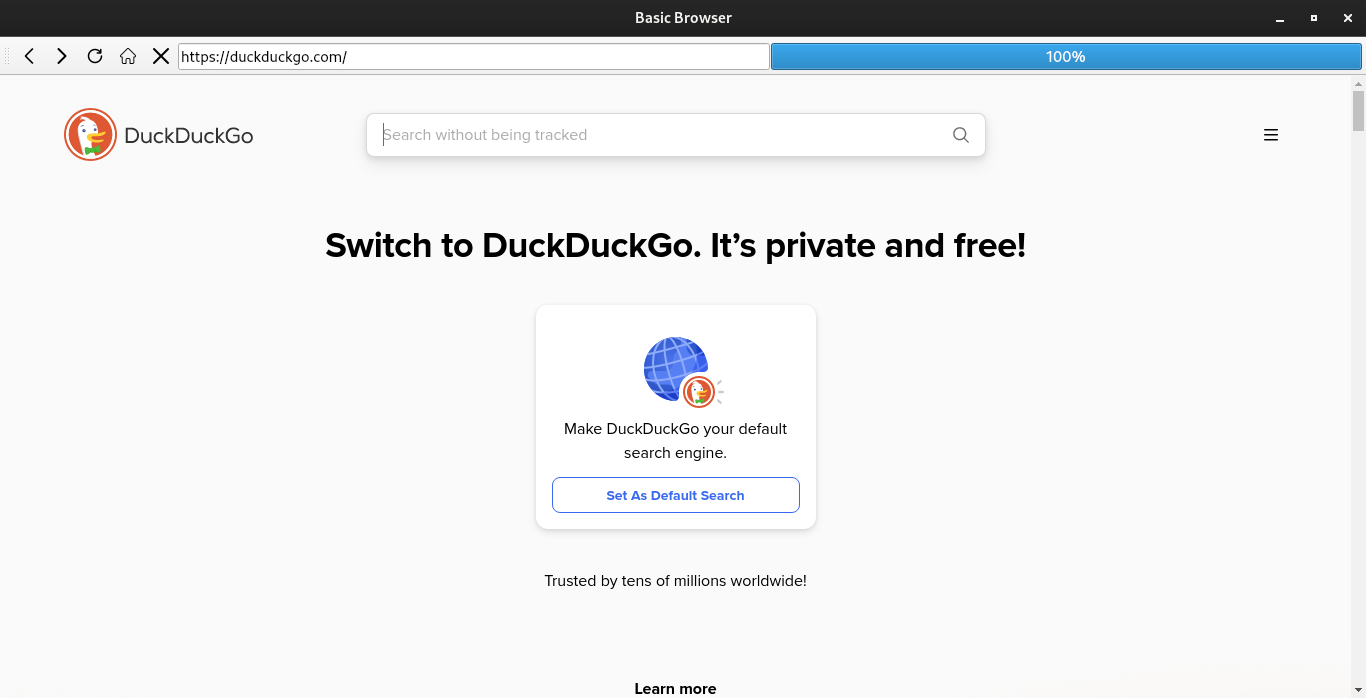
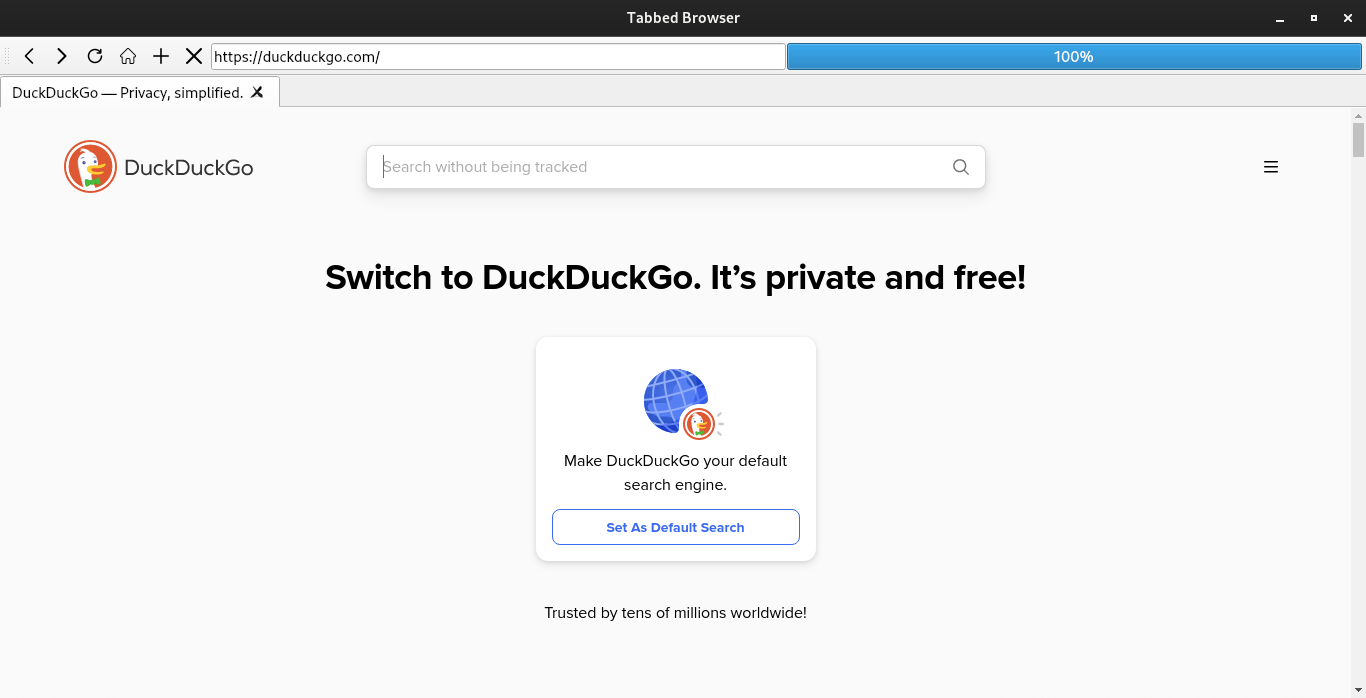
Tab Functionality added

diff --git a/browser.py b/browser.py
@@ -8,9 +8,16 @@ from PyQt5.QtWebEngineWidgets import *
 class MainWindow(QMainWindow):
     def __init__(self):
         super(MainWindow, self).__init__()
-        self.browser = QWebEngineView()
-        self.browser.setUrl(QUrl('https://duckduckgo.com'))  # Default to DuckDuckGo
-        self.setCentralWidget(self.browser)
+        
+        # Tab Widget to hold multiple tabs
+        self.tabs = QTabWidget()
+        self.tabs.setDocumentMode(True)
+        self.tabs.setTabsClosable(True)
+        self.tabs.tabCloseRequested.connect(self.close_current_tab)
+        self.tabs.currentChanged.connect(self.update_current_tab)
+
+        # Set the tab widget as the central widget
+        self.setCentralWidget(self.tabs)
         self.showMaximized()
 
         # Navbar
@@ -18,34 +25,40 @@ class MainWindow(QMainWindow):
         self.addToolBar(navbar)
 
         # Back button
-        back_btn = QAction(QIcon('icons/back.png'), 'Back', self)  # Use an icon for the back button
+        back_btn = QAction(QIcon('icons/back.png'), 'Back', self)
         back_btn.setToolTip('Go back to the previous page')
-        back_btn.triggered.connect(self.browser.back)
+        back_btn.triggered.connect(lambda: self.current_browser().back())
         navbar.addAction(back_btn)
 
         # Forward button
-        forward_btn = QAction(QIcon('icons/forward.png'), 'Forward', self)  # Use an icon for the forward button
+        forward_btn = QAction(QIcon('icons/forward.png'), 'Forward', self)
         forward_btn.setToolTip('Go forward to the next page')
-        forward_btn.triggered.connect(self.browser.forward)
+        forward_btn.triggered.connect(lambda: self.current_browser().forward())
         navbar.addAction(forward_btn)
 
         # Reload button
-        reload_btn = QAction(QIcon('icons/reload.png'), 'Reload', self)  # Use an icon for the reload button
+        reload_btn = QAction(QIcon('icons/reload.png'), 'Reload', self)
         reload_btn.setToolTip('Reload the current page')
-        reload_btn.triggered.connect(self.browser.reload)
+        reload_btn.triggered.connect(lambda: self.current_browser().reload())
         navbar.addAction(reload_btn)
 
         # Home button
-        home_btn = QAction(QIcon('icons/home.png'), 'Home', self)  # Use an icon for the home button
+        home_btn = QAction(QIcon('icons/home.png'), 'Home', self)
         home_btn.setToolTip('Go to the homepage')
         home_btn.triggered.connect(self.navigate_home)
         navbar.addAction(home_btn)
 
-        # Stop button
-        stop_btn = QAction(QIcon('icons/stop.png'), 'Stop', self)  # Use an icon for the stop button
-        stop_btn.setToolTip('Stop loading the page')
-        stop_btn.triggered.connect(self.browser.stop)
-        navbar.addAction(stop_btn)
+        # New Tab button
+        new_tab_btn = QAction(QIcon('icons/new_tab.png'), 'New Tab', self)
+        new_tab_btn.setToolTip('Open a new tab')
+        new_tab_btn.triggered.connect(lambda: self.add_new_tab(QUrl('https://duckduckgo.com'), "New Tab"))
+        navbar.addAction(new_tab_btn)
+
+        # Close Tab button (replaces Stop button)
+        close_tab_btn = QAction(QIcon('icons/stop.png'), 'Close Tab', self)
+        close_tab_btn.setToolTip('Close the current tab')
+        close_tab_btn.triggered.connect(lambda: self.close_current_tab(self.tabs.currentIndex()))
+        navbar.addAction(close_tab_btn)
 
         # URL bar
         self.url_bar = QLineEdit()
@@ -57,19 +70,49 @@ class MainWindow(QMainWindow):
         self.progress.setMaximum(100)
         navbar.addWidget(self.progress)
 
-        # Connect signals for progress and URL updates
-        self.browser.loadProgress.connect(self.update_progress)
-        self.browser.urlChanged.connect(self.update_url)
+        # Open the first tab
+        self.add_new_tab(QUrl('https://duckduckgo.com'), 'New Tab')
+
+    def add_new_tab(self, qurl=None, label="New Tab"):
+        if qurl is None:
+            qurl = QUrl('https://duckduckgo.com')
+
+        # Create a new browser view for the tab
+        browser = QWebEngineView()
+        browser.setUrl(qurl)
+        
+        # Add new tab to the tabs widget and set it as the current tab
+        i = self.tabs.addTab(browser, label)
+        self.tabs.setCurrentIndex(i)
+
+        # Connect signals for title, progress, and URL updates specific to this browser
+        browser.loadProgress.connect(self.update_progress)
+        browser.urlChanged.connect(self.update_url)
+        browser.titleChanged.connect(lambda title: self.update_tab_title(i, title))
+
+    def current_browser(self):
+        return self.tabs.currentWidget()
+
+    def close_current_tab(self, i=None):
+        if i is None:
+            i = self.tabs.currentIndex()
+        if self.tabs.count() > 1:
+            self.tabs.removeTab(i)
+
+    def update_current_tab(self, i):
+        browser = self.current_browser()
+        if browser:
+            # Update the URL bar for the new tab
+            self.update_url(browser.url())
 
     def navigate_home(self):
-        self.browser.setUrl(QUrl('https://duckduckgo.com'))  # Home button navigates to DuckDuckGo
+        self.current_browser().setUrl(QUrl('https://duckduckgo.com'))
 
     def navigate_to_url(self):
         url = self.url_bar.text()
         if not url.startswith('http'):
-            # If the text does not start with 'http', treat it as a search query
             url = 'https://duckduckgo.com/?q=' + url.replace(' ', '+')
-        self.browser.setUrl(QUrl(url))
+        self.current_browser().setUrl(QUrl(url))
 
     def update_url(self, q):
         self.url_bar.setText(q.toString())
@@ -77,8 +120,12 @@ class MainWindow(QMainWindow):
     def update_progress(self, progress):
         self.progress.setValue(progress)
 
+    def update_tab_title(self, index, title):
+        # Set the title of the tab at the specified index
+        self.tabs.setTabText(index, title if title else "New Tab")
+
 
 app = QApplication(sys.argv)
-QApplication.setApplicationName('Basic Browser')
+QApplication.setApplicationName('Tabbed Browser')
 window = MainWindow()
 app.exec_()
